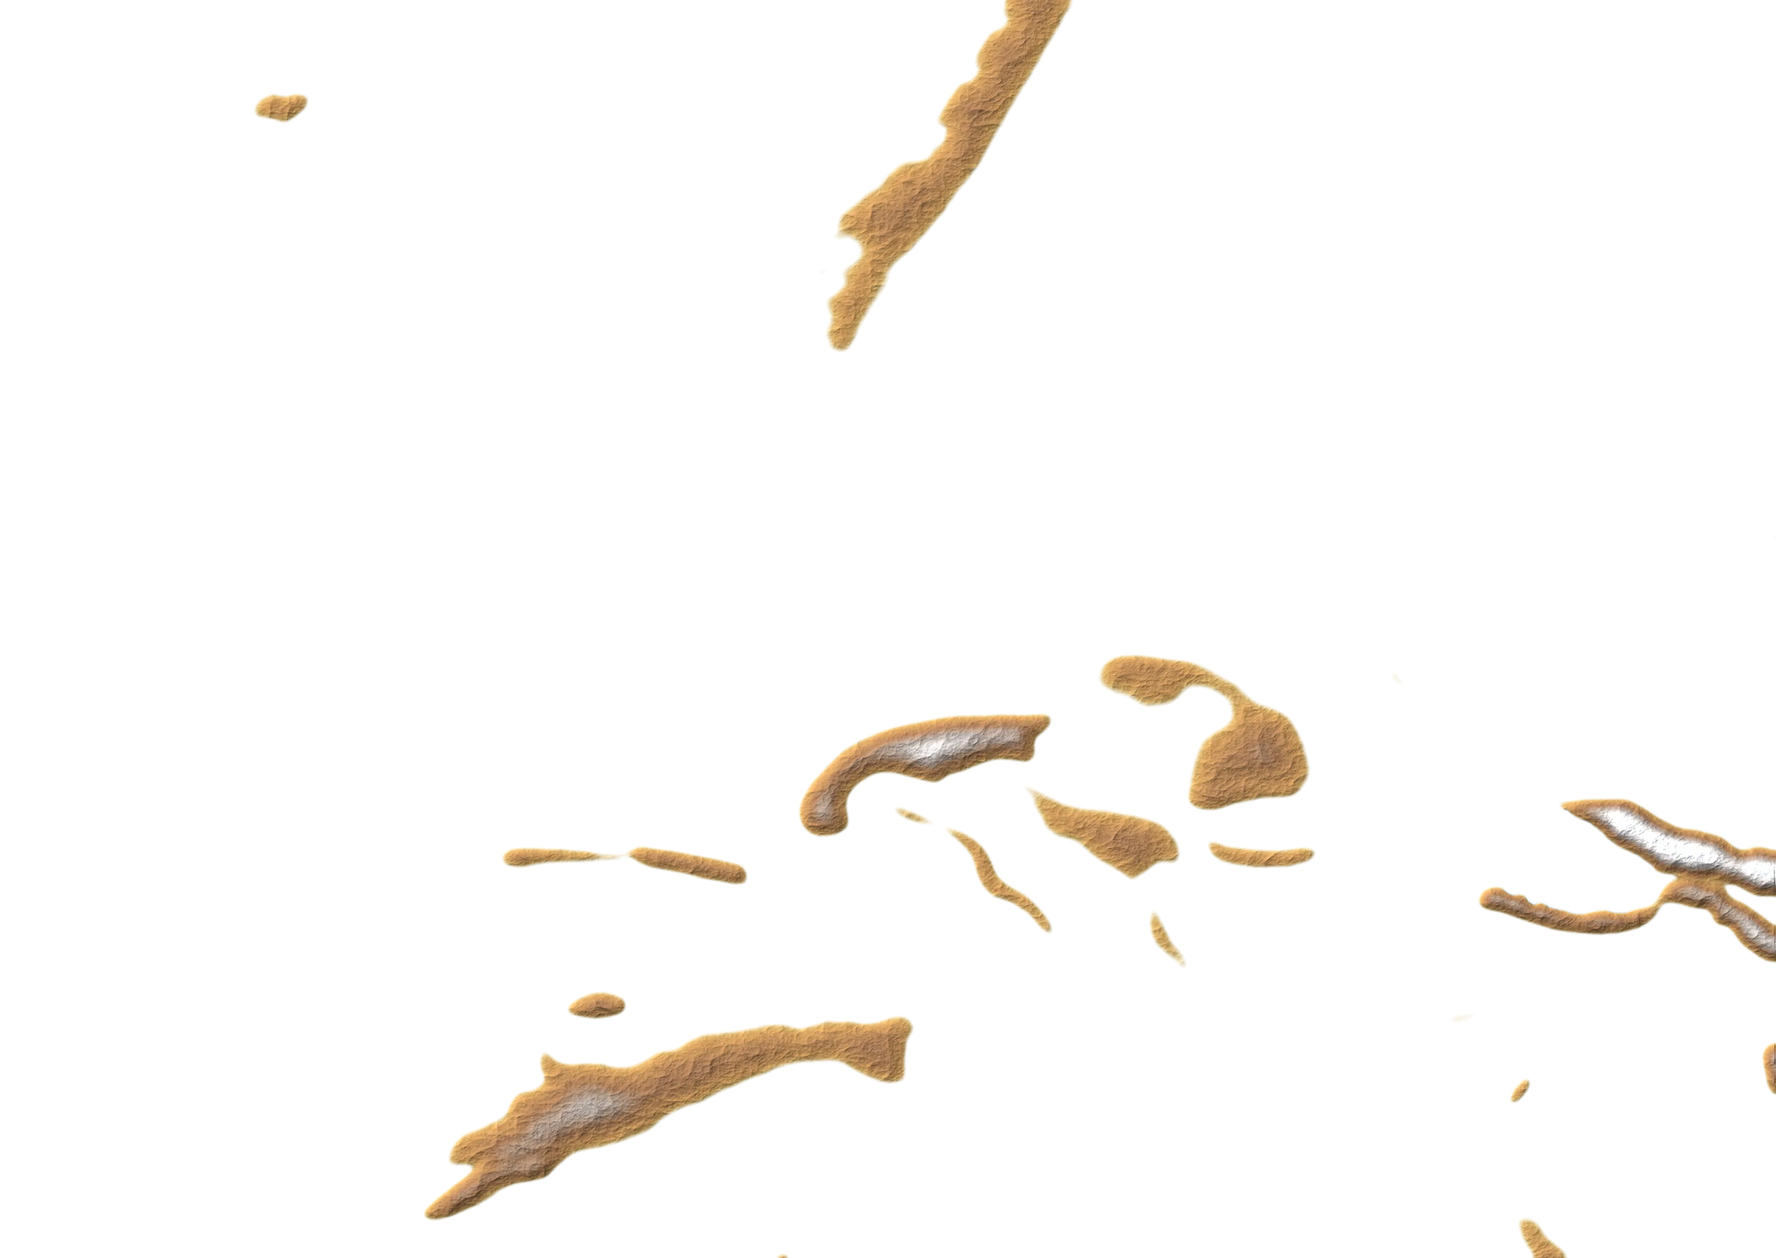
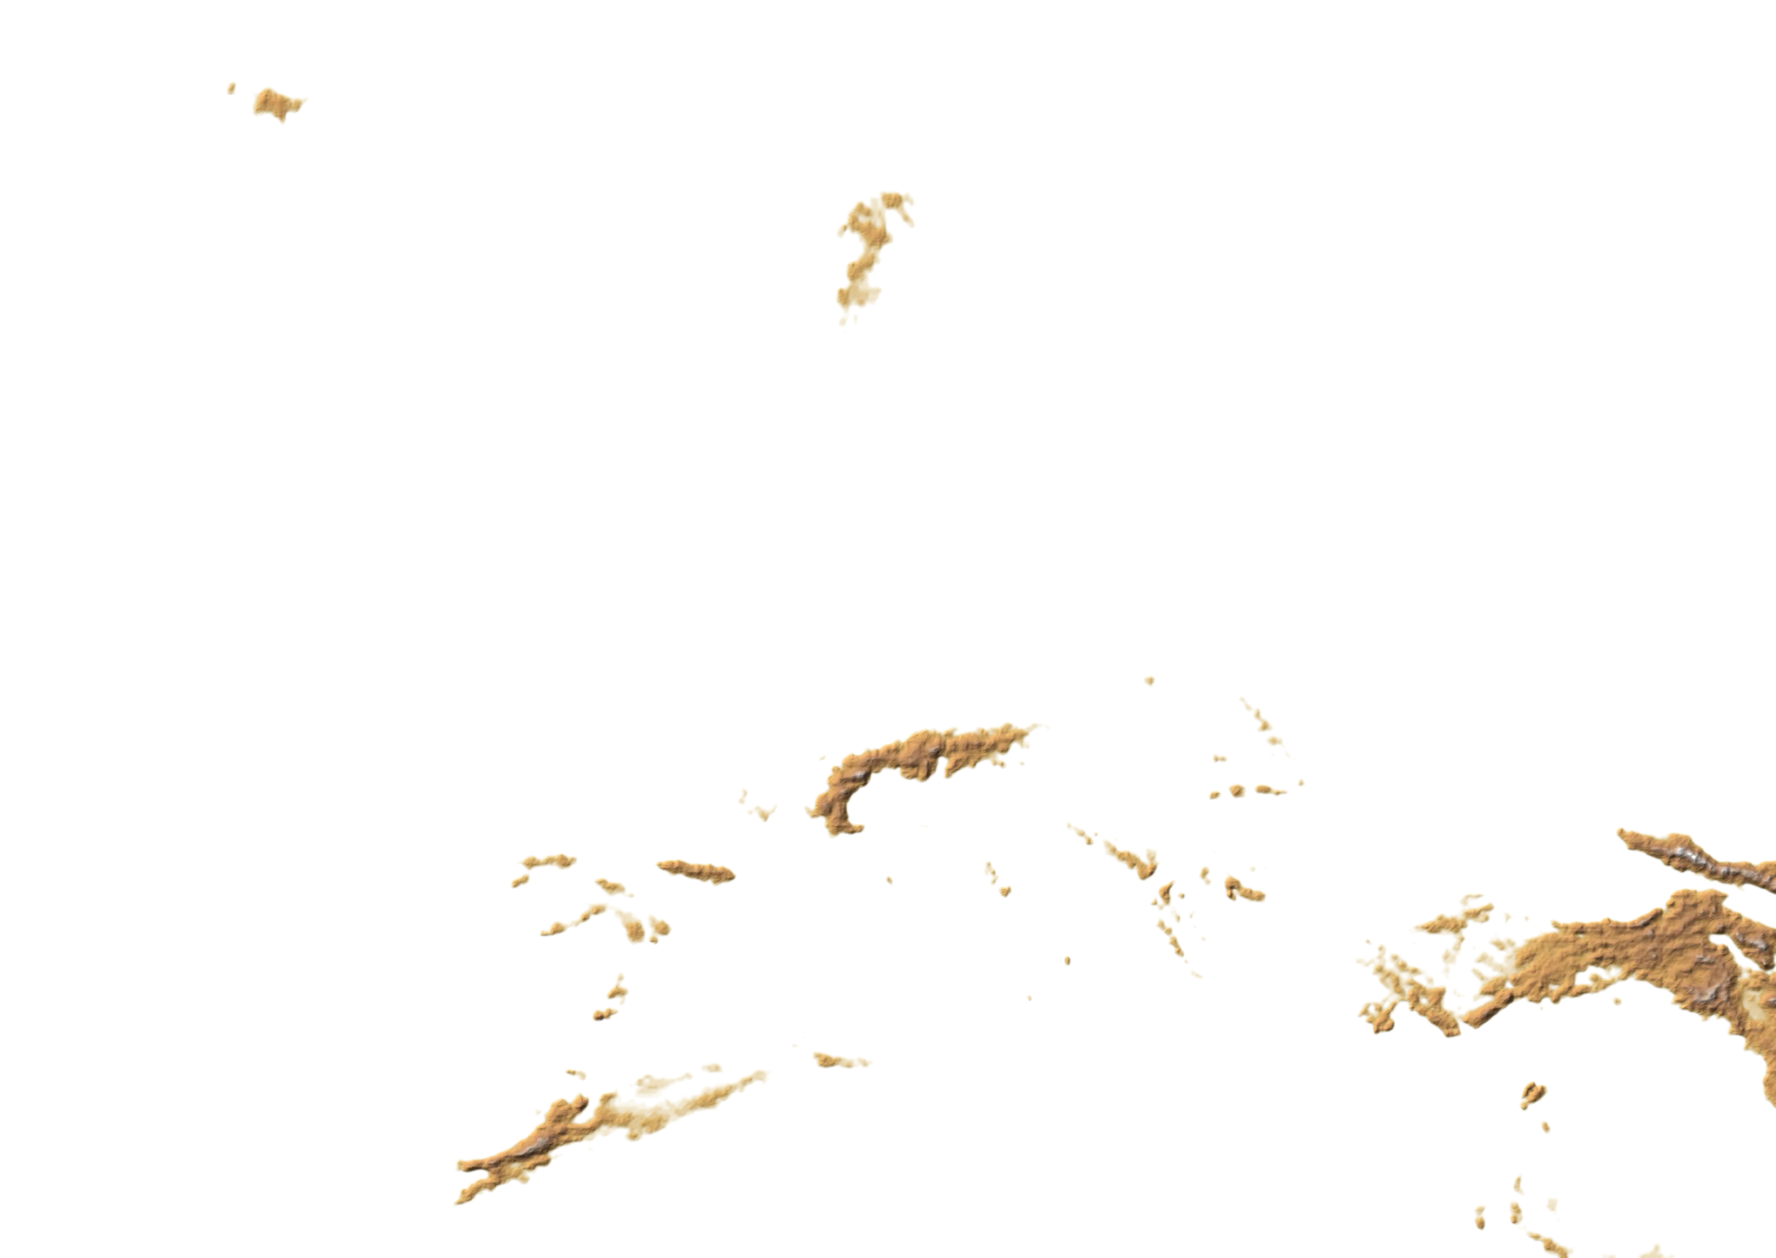
Real DEM terrain, exact tipped-camera projection, open sea past the map's edges

diff --git a/index.html b/index.html
@@ -532,16 +532,14 @@
         /* 🎥 Exactly the viewport, so the pan engine measures the same parent it
            always did. `overflow: visible` matters — the chart is bigger than this
            box and must keep drawing past it, clipped by the viewport as before. */
-        /* Deep enough, and solid enough at the very top, that the chart's own far
-           edge dissolves into distance before it can be reached. Every game with
-           a tipped camera closes its world this way; the alternative is a hard
-           line where the map simply stops. */
-        #horizon-haze { position: absolute; left: 0; top: 0; width: 100%; height: 58%; z-index: 4;
+        /* The faintest breath of distance at the very top of a tipped view — the
+           world no longer needs fog to end it, because past the chart's edge lies
+           open sea now, the same way it does past real Scandinavia. */
+        #horizon-haze { position: absolute; left: 0; top: 0; width: 100%; height: 14%; z-index: 4;
             pointer-events: none; opacity: 0;
             background: linear-gradient(to bottom,
-                rgba(203, 219, 235, 1) 0%,    rgba(200, 217, 234, 0.99) 12%,
-                rgba(196, 214, 232, 0.88) 28%, rgba(191, 209, 229, 0.55) 50%,
-                rgba(187, 206, 227, 0.24) 74%, rgba(184, 203, 224, 0) 100%); }
+                rgba(199, 216, 233, 0.5) 0%, rgba(196, 214, 232, 0.22) 55%,
+                rgba(193, 211, 230, 0) 100%); }
         #camera-rotor { position: absolute; left: 0; top: 0; width: 100%; height: 100%; transform-origin: 50% 50%; overflow: visible;
             /* The chart is ONE plane, and must stay one: without `flat` the browser
                may hand each descendant its own place in 3D and the map comes apart
@@ -554,6 +552,9 @@
            cover, and a full-screen layer nobody can see is a layer to composite. */
         #rotor-backdrop { position: absolute; left: -50%; top: -50%; width: 200%; height: 200%; z-index: 0; display: none; pointer-events: none; background-color: #7ba0c2; }
         #camera-rotor.leaning #rotor-backdrop { display: block; }
+        /* while tipped the backdrop reaches much further — the top of the view
+           looks far up the plane, and all of it should be sea, not void */
+        #camera-rotor.leaning #rotor-backdrop { left: -150%; top: -150%; width: 400%; height: 400%; }
         body.water-live #rotor-backdrop { background: transparent !important; }
         #panzoom-target { display: block; transform-origin: 0 0; box-sizing: border-box; will-change: transform; backface-visibility: hidden; background-color: #7ba0c2; background-image: linear-gradient(to right, rgba(28, 40, 55, 0.07) 1px, transparent 1px), linear-gradient(to bottom, rgba(28, 40, 55, 0.07) 1px, transparent 1px); background-size: 80px 80px; }
 
@@ -3396,11 +3397,12 @@
         ROT_MIN_USEFUL: 3,   // below this many degrees of headroom, do not lean at all
         K_MAX: 1.2,          // the most the camera will push in to cover a lean
         // ---- 🏔 leaning in: where the political map gives way to the ground ----
-        DETAIL_FROM: 1.6,    // × the fit scale where the ground starts to show
-        DETAIL_TO: 3.2,      // …and where it has fully arrived
-        POLITICAL_MIN: 0.20, // how faint the province colours get at full detail
+        DETAIL_FROM: 2.5,    // × the fit scale where the ground starts to show
+        DETAIL_TO: 4.0,      // …and where it has fully arrived
+        POLITICAL_MIN: 0,    // the provinces bow out entirely — down here you are
+                             // looking at the land, not the borders drawn on it
         BAND_LIFT: 10,       // map units each elevation band rises above the one below
-        TILT_MAX: 55,        // degrees the world tips away from you
+        TILT_MAX: 35,        // degrees the world tips away from you
         // px. How FAR the tipped camera sees is decided here, and it runs away
         // fast: the top of the screen looks Y = s·p / (p·cos θ + s·sin θ) up the
         // map plane, which at 1150px and 55° is 2,630 units — five times what a
@@ -3563,23 +3565,45 @@
         return { x: s * p.x, y: s * p.y, w: cam.bbox.width * s, h: cam.bbox.height * s, s: s, pan: p };
     }
 
-    // Hold the chart over the frame using that same arithmetic. The engine's own
-    // containment measures shadows too, so it is switched off while tipped and
-    // this stands in for it.
+    // Hold the chart in view — computed from what the tipped camera actually
+    // SEES, not from the flat rectangle. A 35° view looks much further up the
+    // plane at the top of the screen than a flat one; clamping to the flat frame
+    // was why the map would run south past Africa but refuse to come north to
+    // Sweden. The world is also allowed to END now: the chart may pull back from
+    // any edge by up to half the visible span, and what shows past it is open
+    // sea — which is what lies past Scandinavia in the first place.
     function camClampPan() {
         const box = camChartBox();
         const vp = document.getElementById('map-viewport');
         if (!box || !vp) return;
         const v = vp.getBoundingClientRect();
         const s = box.s, p = box.pan;
-        // covering the frame means: left edge at or before 0, right edge at or past w
-        const spanX = v.width / s - cam.bbox.width;
-        const spanY = v.height / s - cam.bbox.height;
-        const x = spanX > 0 ? spanX / 2 : Math.min(0, Math.max(spanX, p.x));
-        const y = spanY > 0 ? spanY / 2 : Math.min(0, Math.max(spanY, p.y));
-        if (Math.abs(x - p.x) > 1e-6 || Math.abs(y - p.y) > 1e-6) {
-            pzEngine.pan(x, y, { relative: false, animate: false });
+        const hw = v.width / 2, hh = v.height / 2;
+        // the plane rectangle the screen can see (corners, inverted exactly)
+        const corners = [camScreenToPlane(-hw, -hh), camScreenToPlane(hw, -hh),
+                         camScreenToPlane(-hw, hh), camScreenToPlane(hw, hh)]
+            .filter(Boolean);
+        let x0 = -hw, x1 = hw, y0 = -hh, y1 = hh;
+        if (corners.length === 4) {
+            x0 = Math.min(...corners.map(c => c.x)); x1 = Math.max(...corners.map(c => c.x));
+            y0 = Math.min(...corners.map(c => c.y)); y1 = Math.max(...corners.map(c => c.y));
         }
+        // visible plane rect, in chart units, at the current pan
+        const visW = (x1 - x0) / s, visH = (y1 - y0) / s;
+        const visL = (x0 + hw) / s - p.x, visT = (y0 + hh) / s - p.y;
+        const slackX = visW * 0.5, slackY = visH * 0.5;
+        // the chart [0..w]×[0..h] must overlap the visible rect, less the slack
+        let dx = 0, dy = 0;
+        if (cam.bbox.width < visW - 2 * slackX) { /* chart smaller than the required window: leave it */ }
+        else {
+            if (visL < -slackX) dx = -slackX - visL;                                    // too far west
+            if (visL + visW > cam.bbox.width + slackX) dx = (cam.bbox.width + slackX) - (visL + visW);
+        }
+        if (cam.bbox.height >= visH - 2 * slackY) {
+            if (visT < -slackY) dy = -slackY - visT;
+            if (visT + visH > cam.bbox.height + slackY) dy = (cam.bbox.height + slackY) - (visT + visH);
+        }
+        if (dx || dy) pzEngine.pan(p.x - dx, p.y - dy, { relative: false, animate: false });
     }
 
     // Move the chart to `next`, holding a point still.
@@ -3596,14 +3620,24 @@
         const s = pzEngine.getScale();
         if (!(s > 0) || !(next > 0)) return;
         if (cam.tilt > 0.5 && cam.bbox) {
+            // Tipped, and aimed at the CURSOR. The plane point under the mouse is
+            // known exactly (see camScreenToPlane), and holding a known plane
+            // point through a scale change is pure algebra:
+            //     plane = s · (chartPt + pan)   ⇒   pan' = pan + plane · (1/s' − 1/s)
             const vp = document.getElementById('map-viewport');
             const v = vp ? vp.getBoundingClientRect() : null;
             if (v) {
+                let plane = null;
+                if (cam.zoomAnchor) {
+                    const hit = camChartPointAt(cam.zoomAnchor.clientX, cam.zoomAnchor.clientY);
+                    if (hit) plane = hit.plane;
+                }
+                if (!plane) plane = { x: v.width / 2, y: v.height / 2 };
                 const before = pzEngine.getPan();
                 pzEngine.zoom(next, { animate: false });        // the engine keeps the pan
                 const after = pzEngine.getScale();
                 const k = 1 / after - 1 / s;
-                pzEngine.pan(before.x + (v.width / 2) * k, before.y + (v.height / 2) * k,
+                pzEngine.pan(before.x + plane.x * k, before.y + plane.y * k,
                              { relative: false, animate: false });
                 camClampPan();
                 return;
@@ -3613,27 +3647,43 @@
         else pzEngine.zoom(next, { animate: false });
     }
 
-    // 🎯 WHERE THE ZOOM IS AIMED.
-    // The pan engine turns a point on the screen into a point on the chart by
-    // undoing a 2D transform. Once the world is TIPPED that arithmetic is wrong —
-    // the mapping is projective, not linear — and zooming toward the cursor drifts
-    // further off the further you are from the middle.
+    // 📐 THE SCREEN, UNDONE EXACTLY.
+    // The rotor's transform is perspective(p) · rotateX(θ) · scale(k) about the
+    // centre of the view. That is a projective map, but a perfectly invertible
+    // one: a plane point at (x, y) lands on screen at
     //
-    // The centre of the screen is the one point the tilt does not move, so the
-    // arithmetic is still exactly right there. The anchor slides from the cursor
-    // toward the centre as the world leans, which is both correct at the ends and
-    // unnoticeable in between.
-    function camZoomAnchor() {
-        if (!cam.zoomAnchor) return null;
-        const lean = Math.min(1, cam.tilt / Math.max(1, CAM.TILT_MAX));
-        if (lean < 0.02) return cam.zoomAnchor;
+    //     sy = y·cosθ·p / (p − y·sinθ)         sx = x·p / (p − y·sinθ)
+    //
+    // and solving those for x and y is one line each. So the point of the CHART
+    // under any pixel of the SCREEN is known exactly, at any tilt — no measuring,
+    // no approximating, no drifting. This one function is what lets a tipped
+    // world zoom to the cursor, and lets the clamp know what is actually visible.
+    // (screen coords are relative to the viewport's centre; returns rotor-plane
+    // coords, also centre-relative, in the chart's own pre-rotor pixels.)
+    function camScreenToPlane(sx, sy) {
+        const th = (cam.tilt || 0) * Math.PI / 180;
+        const p = CAM.PERSPECTIVE;
+        const k = camLeanCover(cam.rot, cam.flatRect) *
+                  (1 + 0.62 * Math.sin((cam.tilt || 0) * Math.PI / 180));
+        const denom = Math.cos(th) * p + sy * Math.sin(th);
+        if (Math.abs(denom) < 1e-6) return null;               // at/past the horizon
+        const y = sy * p / denom;
+        if (Math.sin(th) !== 0 && p - y * Math.sin(th) <= 0) return null;
+        const x = sx * (p - y * Math.sin(th)) / p;
+        return { x: x / k, y: y / k };
+    }
+
+    // The chart point under a screen position — the plane point, un-panned.
+    function camChartPointAt(clientX, clientY) {
         const vp = document.getElementById('map-viewport');
-        if (!vp) return cam.zoomAnchor;
+        if (!vp || !pzEngine) return null;
         const v = vp.getBoundingClientRect();
-        const cx = v.left + v.width / 2, cy = v.top + v.height / 2;
-        const t = lean * lean;                   // stay honest to the cursor early on
-        return { clientX: cam.zoomAnchor.clientX + (cx - cam.zoomAnchor.clientX) * t,
-                 clientY: cam.zoomAnchor.clientY + (cy - cam.zoomAnchor.clientY) * t };
+        const pl = camScreenToPlane(clientX - (v.left + v.width / 2), clientY - (v.top + v.height / 2));
+        if (!pl) return null;
+        const s = pzEngine.getScale(), pan = pzEngine.getPan();
+        return { x: (pl.x + v.width / 2) / s - pan.x,
+                 y: (pl.y + v.height / 2) / s - pan.y,
+                 plane: { x: pl.x + v.width / 2, y: pl.y + v.height / 2 } };
     }
 
     // 🏔 THE DEPTH ITSELF. Each band is lifted further up the screen than the one
@@ -3669,7 +3719,7 @@
         if (ml) ml.style.opacity = pol.toFixed(3);
         if (cl) cl.style.opacity = pol.toFixed(3);
         const haze = document.getElementById('horizon-haze');
-        if (haze) haze.style.opacity = d.toFixed(3);
+        if (haze) haze.style.opacity = (d * 0.7).toFixed(3);
     }
 
     function camFrame(ts) {

diff --git a/tools/make_relief_dem.py b/tools/make_relief_dem.py
@@ -1,0 +1,168 @@
+#!/usr/bin/env python3
+"""
+Shaded relief for the Hegemony map — from Doug's real DEM.
+
+`topographyeurope.png` is a 1442×500 equirectangular topo/bathymetric map. Its
+bounds were FITTED, not assumed: rasterising Natural Earth's coastline into the
+frame and sliding the corners until the two agree (96.9%) gives
+
+    lon −82.63 .. 69.45      lat 24.555 .. 77.5      sea level at grey 144
+
+The chart itself is a stretched Mercator (fitted from 70 cities):
+
+    x = 22.6926·lon + 649.782        y = −1107.4408·merc(lat) + 1748.683
+
+So every output pixel walks: chart (x,y) → (lon,lat) → DEM pixel. Real Alps,
+real Carpathians, real Norwegian coast — the synthetic ranges are retired.
+
+The DEM is small for a 3420-wide plate, so cubic upsampling is re-detailed with
+ridged noise whose amplitude follows the REAL local relief: rough where the DEM
+is rough, calm on the plains. The noise adds texture, never geography.
+
+Outputs the same four elevation bands the game already stacks for parallax.
+"""
+import json, math, os
+import numpy as np
+from PIL import Image
+from scipy import ndimage
+
+GEO = '/home/claude/geo'
+OUT = '/home/claude/art/relief_europe.webp'
+
+fit = json.load(open(f'{GEO}/topo_fit.json'))
+LON0, LON1, LAT0, LAT1, SEA = fit['lon0'], fit['lon1'], fit['lat0'], fit['lat1'], fit['sea']
+
+AX, BX = 22.6926, 649.782
+AY, BY = -1107.4408, 1748.683
+SVG_W, SVG_H = 1710.0, 1212.0
+SS = 2
+W, H = int(SVG_W * SS), int(SVG_H * SS)
+
+dem = np.asarray(Image.open(f'{GEO}/topographyeurope.png').convert('L'), dtype=np.float32)
+DH, DW = dem.shape
+print(f'DEM {DW}x{DH}, sea at grey {SEA}, bounds lon {LON0:.2f}..{LON1:.2f} lat {LAT0:.2f}..{LAT1:.2f}')
+
+# ---- THE COAST IS NOT THE DEM'S TO DECIDE ---------------------------------
+# A single grey threshold cannot draw a coastline: the North Sea shelf and the
+# Danish straits are so shallow that their bathymetry sits ABOVE any threshold
+# that gets the deep coasts right — which is how England grew a land bridge to
+# the Lowlands and Denmark lost its shape. So the coastline comes from Natural
+# Earth's vectors, drawn through the chart's own projection (exactly as the
+# synthetic relief did, and its Denmark was right), and the DEM's job is only
+# the HEIGHTS on that land.
+from PIL import ImageDraw
+
+def merc_s(lat):
+    lat = np.clip(lat, -84.0, 84.0)
+    return np.log(np.tan(np.radians(45.0 + lat / 2.0)))
+
+def project(lon_a, lat_a):
+    return (AX * np.asarray(lon_a) + BX) * SS, (AY * merc_s(np.asarray(lat_a)) + BY) * SS
+
+def ne_land_mask(w, h):
+    feats = json.load(open(f'{GEO}/ne_50m_land.geojson'))['features']
+    img = Image.new('L', (w, h), 0)
+    d = ImageDraw.Draw(img)
+    for f in feats:
+        g = f['geometry']
+        polys = [g['coordinates'][0]] if g['type'] == 'Polygon' else [p[0] for p in g['coordinates']]
+        for ring in polys:
+            a = np.asarray(ring, dtype=float)
+            px, py = project(a[:, 0], a[:, 1])
+            if px.max() < 0 or px.min() > w or py.max() < 0 or py.min() > h: continue
+            d.polygon(list(zip(px.tolist(), py.tolist())), fill=255)
+    return np.asarray(img) > 127
+
+# ---- chart pixel -> DEM pixel, exactly ------------------------------------
+ys, xs = np.mgrid[0:H, 0:W].astype(np.float32)
+lon = (xs / SS - BX) / AX
+m = (ys / SS - BY) / AY
+lat = np.degrees(2.0 * np.arctan(np.exp(m)) - math.pi / 2.0)
+du = (lon - LON0) / (LON1 - LON0) * (DW - 1)
+dv = (LAT1 - lat) / (LAT1 - LAT0) * (DH - 1)
+inside = (du >= 0) & (du <= DW - 1) & (dv >= 0) & (dv <= DH - 1)
+grey = ndimage.map_coordinates(dem, [np.clip(dv, 0, DH - 1), np.clip(du, 0, DW - 1)],
+                               order=3, mode='nearest').reshape(H, W)
+grey = np.where(inside, grey, SEA - 20.0)      # off the DEM: open sea
+
+# ---- grey -> metres --------------------------------------------------------
+# Land runs SEA..max. Mont Blanc is the tallest thing on this chart, so the top
+# of the land range is pinned near 4800m. Below SEA is bathymetry (kept only to
+# find the coast; the sea stays transparent for the living water).
+top = float(dem.max())
+hgt = np.clip((grey - SEA) / max(1.0, (top - SEA)), 0, 1) ** 1.35 * 4800.0
+land = ne_land_mask(W, H)                     # the real coastline, not a threshold
+hgt = hgt * land                              # shallow shelf inside the coast: height ~0, which is true
+land_soft = ndimage.gaussian_filter(land.astype(np.float32), 1.6)
+
+# ---- re-detail the upsampled ground ---------------------------------------
+rng = np.random.default_rng(20260819)
+def value_noise(shape, cells):
+    g = rng.random((cells, cells)).astype(np.float32)
+    return ndimage.zoom(g, (shape[0] / cells, shape[1] / cells), order=3)[:shape[0], :shape[1]]
+def ridged(shape, octaves, cells0):
+    out = np.zeros(shape, dtype=np.float32); amp, cells, tot = 1.0, cells0, 0.0
+    for _ in range(octaves):
+        n = value_noise(shape, max(2, int(cells)))
+        r = 1.0 - np.abs(n * 2.0 - 1.0)
+        out += amp * r * r; tot += amp; amp *= 0.5; cells *= 2.0
+    return out / tot
+
+# where the REAL ground is rough — drives how much texture is allowed
+gy, gx = np.gradient(ndimage.gaussian_filter(hgt, 4.0))
+rough = np.hypot(gx, gy)
+rough = np.clip(rough / max(1e-6, np.percentile(rough[land], 97)), 0, 1)
+rough = ndimage.gaussian_filter(rough, 6.0)
+
+fine = ridged((H, W), 5, 90)
+hgt = hgt + (fine - 0.45) * 420.0 * rough
+grain = ridged((H, W), 3, 380)
+hgt = hgt + (grain - 0.5) * 90.0 * (0.2 + 0.8 * rough)
+hgt = np.clip(hgt, 0, None) * land
+print(f'height: max {hgt.max():.0f} m, mean on land {hgt[land].mean():.0f} m')
+
+# ---- hillshade -------------------------------------------------------------
+Z = 0.0065
+gy, gx = np.gradient(hgt.astype(np.float32)); gx *= Z; gy *= Z
+slope = np.arctan(np.hypot(gx, gy)); aspect = np.arctan2(-gy, gx)
+az, alt = math.radians(315.0), math.radians(45.0)
+shade = np.clip(np.sin(alt) * np.cos(slope) +
+                np.cos(alt) * np.sin(slope) * np.cos(az - aspect), 0, 1)
+ao = 1.0 - 0.35 * np.clip(ndimage.gaussian_filter(hgt, 9) - hgt, 0, 600) / 600.0
+shade = np.clip(shade * ao, 0, 1)
+
+# ---- tint ------------------------------------------------------------------
+stops = [(0,    (126, 158,  96)),
+         (300,  (156, 168,  96)),
+         (800,  (190, 172, 106)),
+         (1500, (176, 132,  80)),
+         (2400, (142, 104,  74)),
+         (3200, (156, 146, 140)),
+         (4000, (240, 242, 246))]
+tint_h = np.clip(ndimage.gaussian_filter(hgt, 2.0), 0, stops[-1][0]) * land
+rgb = np.zeros((H, W, 3), dtype=np.float32)
+for (h0, c0), (h1, c1) in zip(stops, stops[1:]):
+    msk = (tint_h >= h0) & (tint_h <= h1)
+    if not msk.any(): continue
+    t = ((tint_h[msk] - h0) / max(1e-6, (h1 - h0)))[:, None]
+    rgb[msk] = np.asarray(c0, np.float32) * (1 - t) + np.asarray(c1, np.float32) * t
+rgb *= (0.40 + 1.08 * shade)[:, :, None]
+sea_c = np.asarray([123, 160, 194], np.float32)
+land_a = np.clip((land_soft - 0.45) * 3.2, 0, 1)[:, :, None]
+rgb = rgb * land_a + sea_c * (1 - land_a)
+land_alpha = np.clip((land_soft - 0.45) * 3.2, 0, 1)
+
+# ---- the four parallax bands ----------------------------------------------
+BANDS = [('base', 0, 0), ('b1', 320, 1), ('b2', 950, 2), ('b3', 1900, 3)]
+total = 0
+for name, floor, lift in BANDS:
+    if floor <= 0: a = land_alpha
+    else:
+        a = np.clip((tint_h - floor) / 260.0, 0, 1) * land_alpha
+        a = ndimage.gaussian_filter(a.astype(np.float32), 1.5)
+    rgba = np.dstack([np.clip(rgb, 0, 255), a * 255.0]).astype(np.uint8)
+    path = OUT.replace('.webp', f'_{name}.webp')
+    Image.fromarray(rgba, 'RGBA').save(path, quality=80, method=5)
+    sz = os.path.getsize(path); total += sz
+    print(f'  {name:5s} floor {floor:5d}m  {sz/1e6:.2f} MB')
+print(f'{len(BANDS)} bands, {total/1e6:.2f} MB, {W}x{H}')
